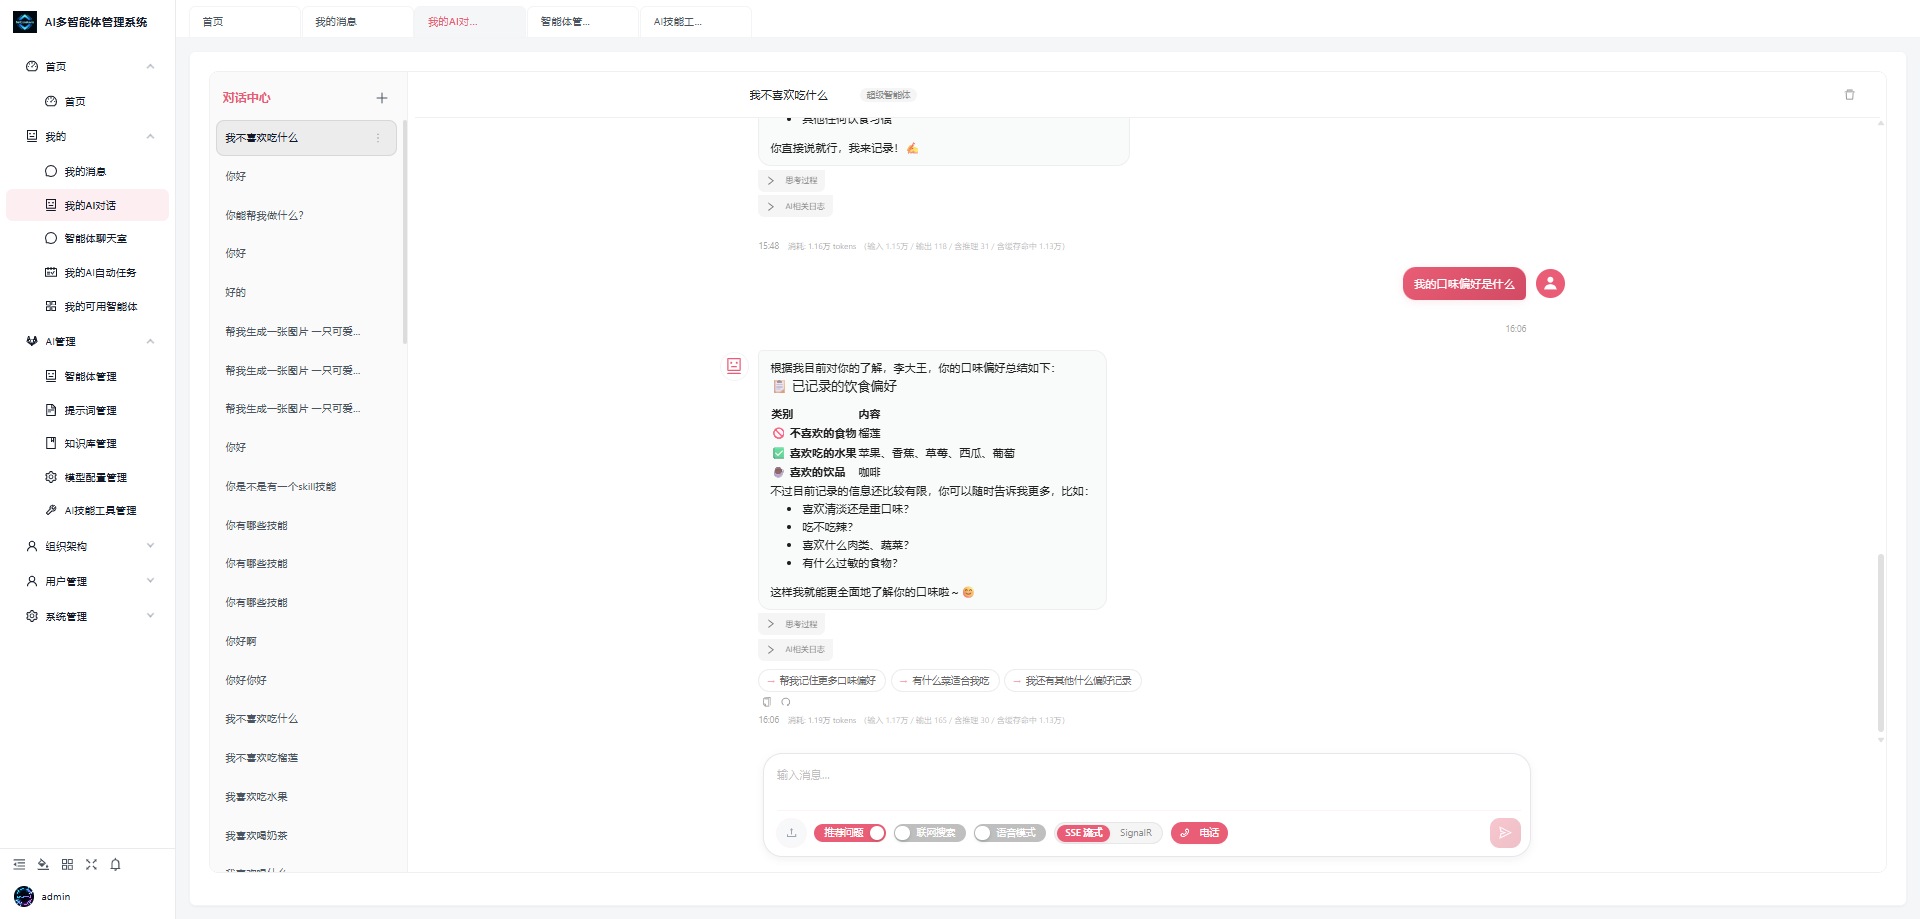
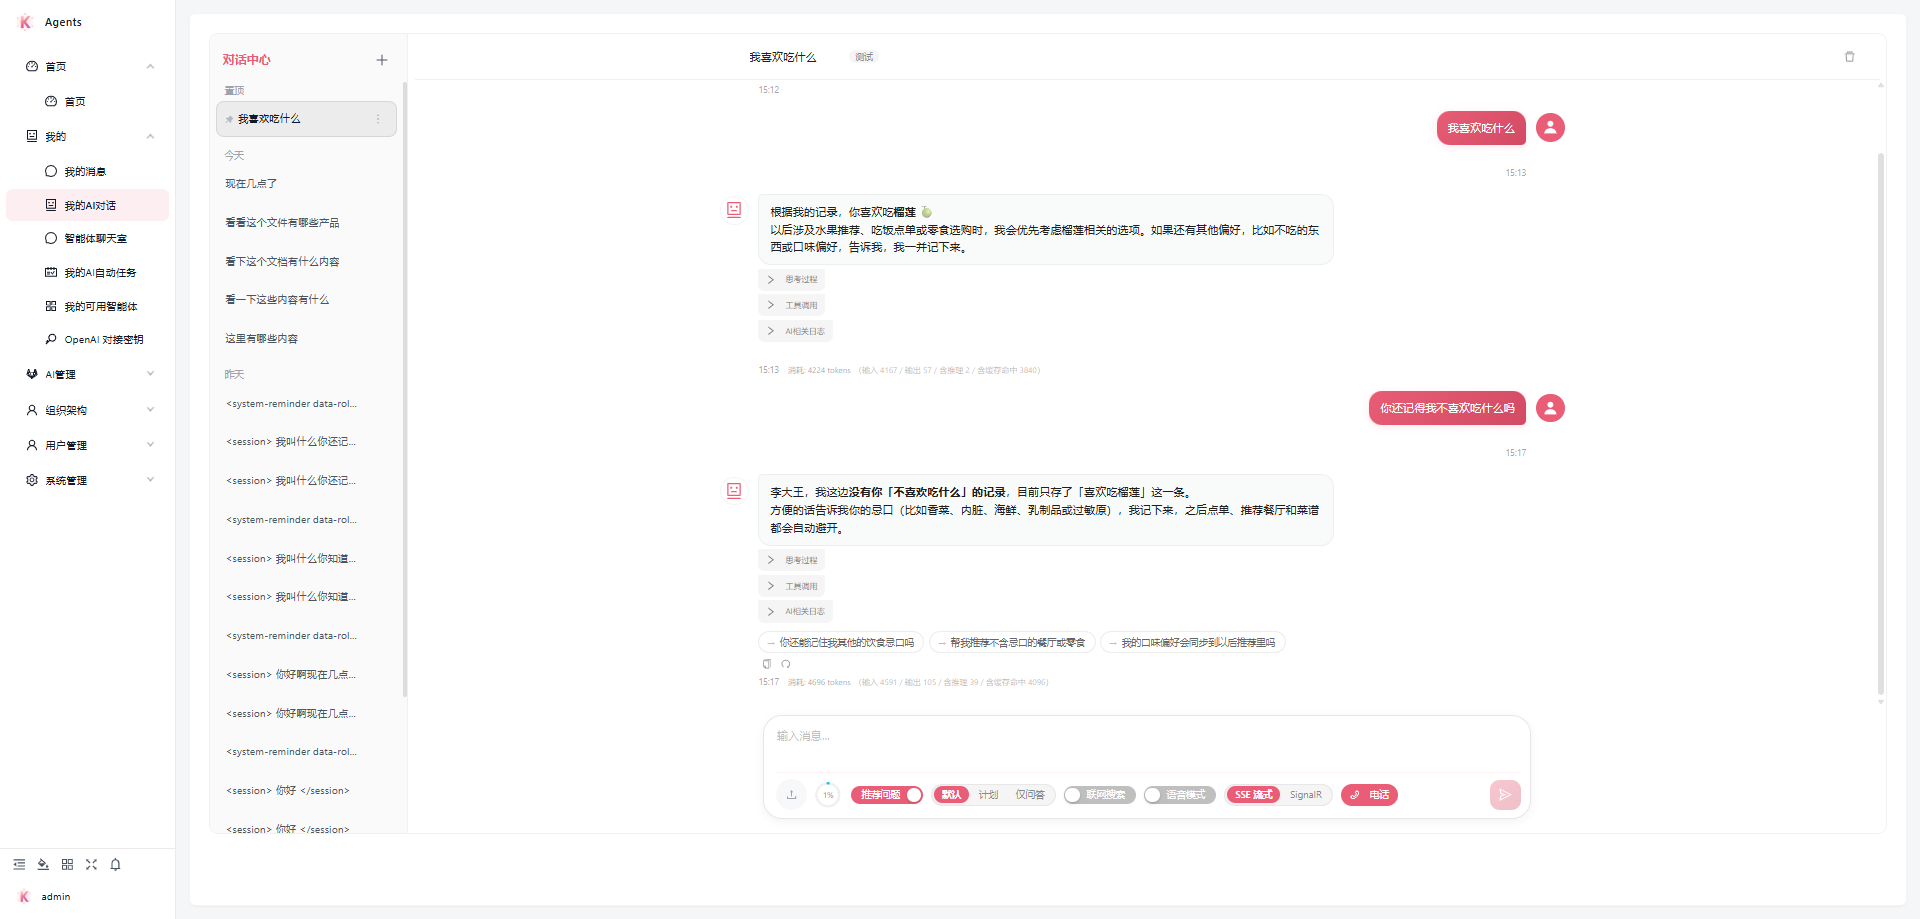
更新文档和图片

diff --git a/SYSTEM_DOCUMENTATION.md b/SYSTEM_DOCUMENTATION.md
@@ -96,9 +96,11 @@
 | `RabbitMQ.Client`（`kevin.RabbitMQ`） | 6.8.1 | 7.2.1 | 必须同步升级，否则与 CAP 的 7.x 冲突导致 `MissingMethodException`；已适配 7.x 异步 API：`CreateConnectionAsync` / `CreateChannelAsync` / `IChannel`、`*Async` 方法族、`BasicProperties`、`AsyncEventingBasicConsumer.ReceivedAsync`、发布确认改由 `CreateChannelOptions` 开启 |
 | `Microsoft.NET.Test.Sdk` / `xunit` / `xunit.runner.visualstudio` / `coverlet.collector` | 17.8.0 / 2.5.3 / 2.5.3 / 6.0.0 | 18.11.0 / 2.9.3 / 4.0.1 / 10.1.0 | 修复 xunit 2.9 分析器报错（`Assert.ThrowsAsync` 必须 await） |
 
-自测结论（Debug）：整解决方案编译 0 错误；`App.WebApi` 启动正常，`/swagger/v1/swagger.json`（145 个路径）、`/swagger/v2/swagger.json`、`/swagger/index.html` 均返回 200，JWT 安全方案 `Bearer` 生效；单元测试 134 个用例通过 117、失败 17（其中 1 个为 RabbitMQ 测试所需 vhost `/app_webapi_test` 不存在，其余为 RAG 工具类既有断言与实现不一致、Selenium 缺 `msedgedriver`、外网样例地址 404，与本次依赖升级无关）。
+自测结论（Debug）：整解决方案编译 0 错误；`App.WebApi` 启动正常，`/swagger/v1/swagger.json`（145 个路径）、`/swagger/v2/swagger.json`、`/swagger/index.html` 均返回 200，JWT 安全方案 `Bearer` 生效。
 
-> 另有一批与 .NET 版本无关的包（`MediatR` 12、`AutoMapper` 15、`FluentAssertions` 6、`SixLabors.ImageSharp` 3、`SkiaSharp` 3、`Emgu.CV` 4、`ModelContextProtocol` 1），无需跟随 .NET 升级；其更新的大版本中部分已转为商业许可或含破坏性变更，需单独评估后再动。
+> 另有一批与 .NET 版本无关的包（`MediatR` 12、`AutoMapper` 15、`FluentAssertions` 6、`SixLabors.ImageSharp` 3.2、`SkiaSharp` 3、`Emgu.CV` 4、`ModelContextProtocol` 1），无需跟随 .NET 升级；其更新的大版本中部分已转为商业许可或含破坏性变更，需单独评估后再动。
+>
+> 依赖安全治理（2026-10）：全仓 `dotnet restore` 已无 NuGet 漏洞审计警告（NU1902/1903/1904 清零）。`SixLabors.ImageSharp` 升级 3.2.0（修复 3.1.x 全部安全通告）；无实际使用的 `OpenTelemetry`（1.14.0 两个包）、`WireMock.Net`（1.6.0）直接移除，连带消除 Scriban.Signed 与 Microsoft.OpenApi.Readers 的传递漏洞；`System.Security.Cryptography.Pkcs` 在 `Kevin.Common` / `kevin.Cache` / `Kevin.EntityFrameworkCore` 钉 10.0.14。
 
 ### 2.2 架构设计
 
@@ -402,7 +404,7 @@ docker run -d --name qdrant -p 6333:6333 -v qdrant_storage:/qdrant/storage qdran
 
 任务通过实现 `IModuleConfigTasks.ConfigTasks` 在启动时自动注册（`Kevin/Application/TaskModuleConfigs/`）。
 
-> 注意：当前 `ServiceConfiguration` 注册的是 `AddKevinHangfireMemoryStorage()`，**进程重启后任务与执行记录会丢失**（周期性任务会在下次启动时重新注册）。需要持久化时改用被注释的 `AddKevinHangfireRedis()` 并配置 `HangfireRedisSetting`。
+> 说明：当前 `ServiceConfiguration` 注册的是 `AddKevinHangfireMemoryStorage()`（内存存储，周期性任务在每次启动时自动注册）。需要持久化时改用被注释的 `AddKevinHangfireRedis()` 并配置 `HangfireRedisSetting`。
 
 ### 6.6 OpenAI 协议兼容接口
 
@@ -775,7 +777,6 @@ sudo systemctl enable kevin-webapi
 | **提问超上下文窗口（400）** | 调大模型 `MaxAskPromptSize`，或开启智能体上下文压缩、新建对话 |
 | **向量维度不匹配** | `MemoryEmbeddingSize` / 模型 `EmbeddingValueSize` 与 Qdrant 集合维度保持一致，换模型要重建集合 |
 | **AI 回复不符合预期但无报错** | 检查智能体提示词、`Temperature`、工具开关（`IsAITools`/`IsSkill`/`IsMcp`）与日志开关 |
-| **Hangfire 任务重启后消失** | 当前为内存存储（`AddKevinHangfireMemoryStorage`），属预期；需持久化切 Redis 存储 |
 | **对话入库失败 / 请求过大** | MySQL `max_allowed_packet`（默认 4MB）限制；按 `AIChatStorageSetting` 调整或调大服务端包限制 |
 | **技能脚本保存被拦截** | 命中 `SkillToolSecuritySetting` URL 前缀白名单，或脚本包含受限文件/危险命令 |
 

diff --git a/README.md b/README.md
@@ -18,7 +18,7 @@ An enterprise AI-agent platform on .NET 10 — RAG, skills, memory, multi-tenanc
 </div>
 
 > [!NOTE]
-> NetCoreKevin 面向「要在企业内网里落一个 AI 助手 / SaaS 智能体中台」的场景：多租户、登录鉴权、权限点、审计日志、定时任务、模型接入这些地基已经铺好，你只需要接自己的业务数据和业务系统。如果你只是想调一次大模型接口，这个仓库对你来说太重了。
+> NetCoreKevin 面向「要在企业内网里落一个 AI 助手 / SaaS 智能体中台」的场景：多租户、登录鉴权、权限点、审计日志、定时任务、模型接入这些地基已经铺好，你只需要接自己的业务数据和业务系统。
 
 <p align="center">
   <img src="Doc/Img/list1/3.png" width="880" alt="NetCoreKevin 智能体对话" />
@@ -455,7 +455,7 @@ ollama run qwen3:4b
 
 ### 5. 自动任务（Hangfire）
 
-默认以 Redis 作为 Hangfire 存储，注入方式可在 `Kevin.Hangfire/ServiceCollectionExtensions` 里调整。
+Hangfire 存储当前默认使用内存（`AddKevinHangfireMemoryStorage`），Redis 存储的注册代码已保留，可在 `ServiceConfiguration` 中切换。
 
 继承 `IModuleConfigTasks` 实现 `ConfigTasks`，任务会在启动时自动注册，并且可以直接调用应用服务：
 
@@ -471,9 +471,9 @@ public class AIKmssModuleConfigTasks : IModuleConfigTasks
     public Task<bool> ConfigTasks(IRecurringJobManager recurringJobManager)
     {
         recurringJobManager.AddOrUpdate<IAIKmssService>(
-            recurringJobId: "每6分钟检测是否有AI文档知识库需要处理",   // 唯一 ID，后续修改或删除都用它
+            recurringJobId: "每5分钟检测是否有AI文档知识库需要处理",   // 唯一 ID，后续修改或删除都用它
             (s) => s.ProcessKmssVectorData(default),
-            "0 0/6 0/1 * * ? ",
+            "0 0/5 0/1 * * ? ",
             new RecurringJobOptions
             {
                 TimeZone = TimeZoneInfo.Local,   // 指定时区，默认 UTC
@@ -539,18 +539,6 @@ kevin.abp.core/
 | **Token 额度** | 月度额度颁发、请求扣减 | ✅ |
 | **文件存储** | 腾讯云 / 阿里云 / 七牛 | ✅ |
 | **消息服务** | 钉钉消息、站内 SignalR 推送 | ✅ |
-
-## 现状与不足
-
-坦白说，下面这些是使用前应该知道的事实：
-
-- **向量维度绑定模型**：`MemoryEmbeddingSize` 默认 2048，对应智谱 `embedding-3`；换 embedding 模型要同步改维度并重建集合，否则检索会报维度不匹配。
-- **模型 Key 要自备**：`OllamaApiSetting`、`AliRerankApiSetting`、`AliyunAsr`、`DoubaoSearchApiSetting` 默认留空或指向智谱示例，没配的能力不可用，也不会伪造结果。
-- **迁移不会自动跑**：本地 `dotnet run` 没有自动迁移，升级代码后要自己 `Update-Database`（容器部署已通过 `DB_AUTO_MIGRATE` 开启自动迁移）。
-- **外部服务要自己开通**：短信、邮件、对象存储的密钥默认是空值，用到时再去 `appsettings.json` 填。
-- **一键部署已支持**：根目录 `docker-compose.yml` 可一条命令拉起前端、后端、MySQL、Redis、Qdrant，详见上面[一键部署（Docker Compose）](#一键部署docker-compose)章节。
-- **前端构建链偏旧**：Vue CLI 5（webpack），还没迁到 Vite。
-- **AI 默认值按通用场景给**：提示词、上下文压缩阈值、工具编排这些默认值不一定适合你的业务，需要按场景调。
 
 ## 文档资源
 
